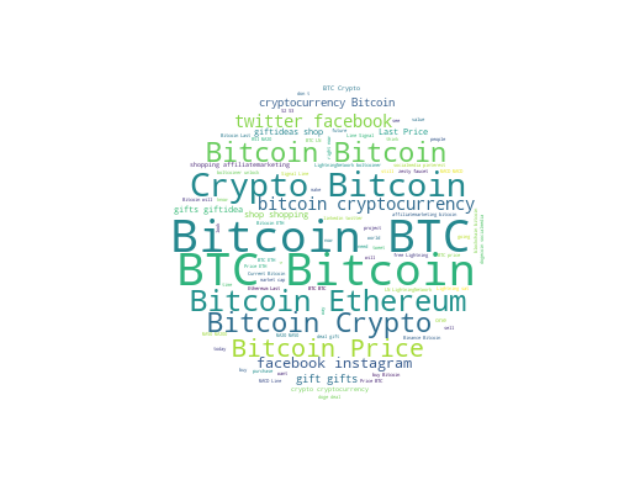
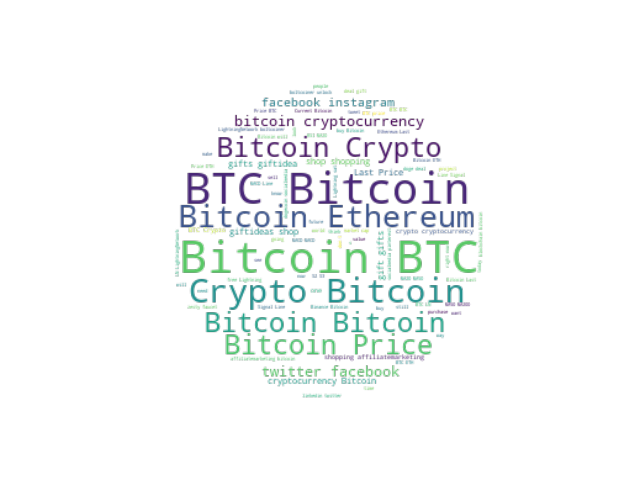
11

Changed region(s): [[0.25, 0.1562, 0.7812, 0.8438]]

diff --git a/app.py b/app.py
@@ -745,7 +745,7 @@ if authentication_status:
 
             with e1:
 
-                col1, col2, col3 = st.columns([3,3,3])
+                col1, col2, col3 = st.columns([5,3,5])
                 with col1:
                     st.title('**Twitter Sentimental Analysis on BTC**')
                     st.markdown('Cryptocurrencies are rising in importance as an investment option and alternative currency. Thus, investors are keen on finding timely market movement insights. One of such sources is Twitter due to its live feed of information on cryptocurrencies and emotional information from investors expressing their sentiments.')
@@ -755,7 +755,7 @@ if authentication_status:
                     highlight = ['Positive', 'Strongly Positive', "Weakly Positive"]
                     st.dataframe(gdeg.style.bar(subset="compound", color=['red', 'green'], align='zero'))
                 with col3:
-                    sss = Image.open(r'wordcloudgood.png')
+                    sss = Image.open(r'wc1.png')
                     st.image(sss)
 
                 fig = px.line(gdeg, x="Date", y="Sentiment", color='Sentiment', title="Sentiments grouped by Dates", width=1618, height=500, symbol="Sentiment")
